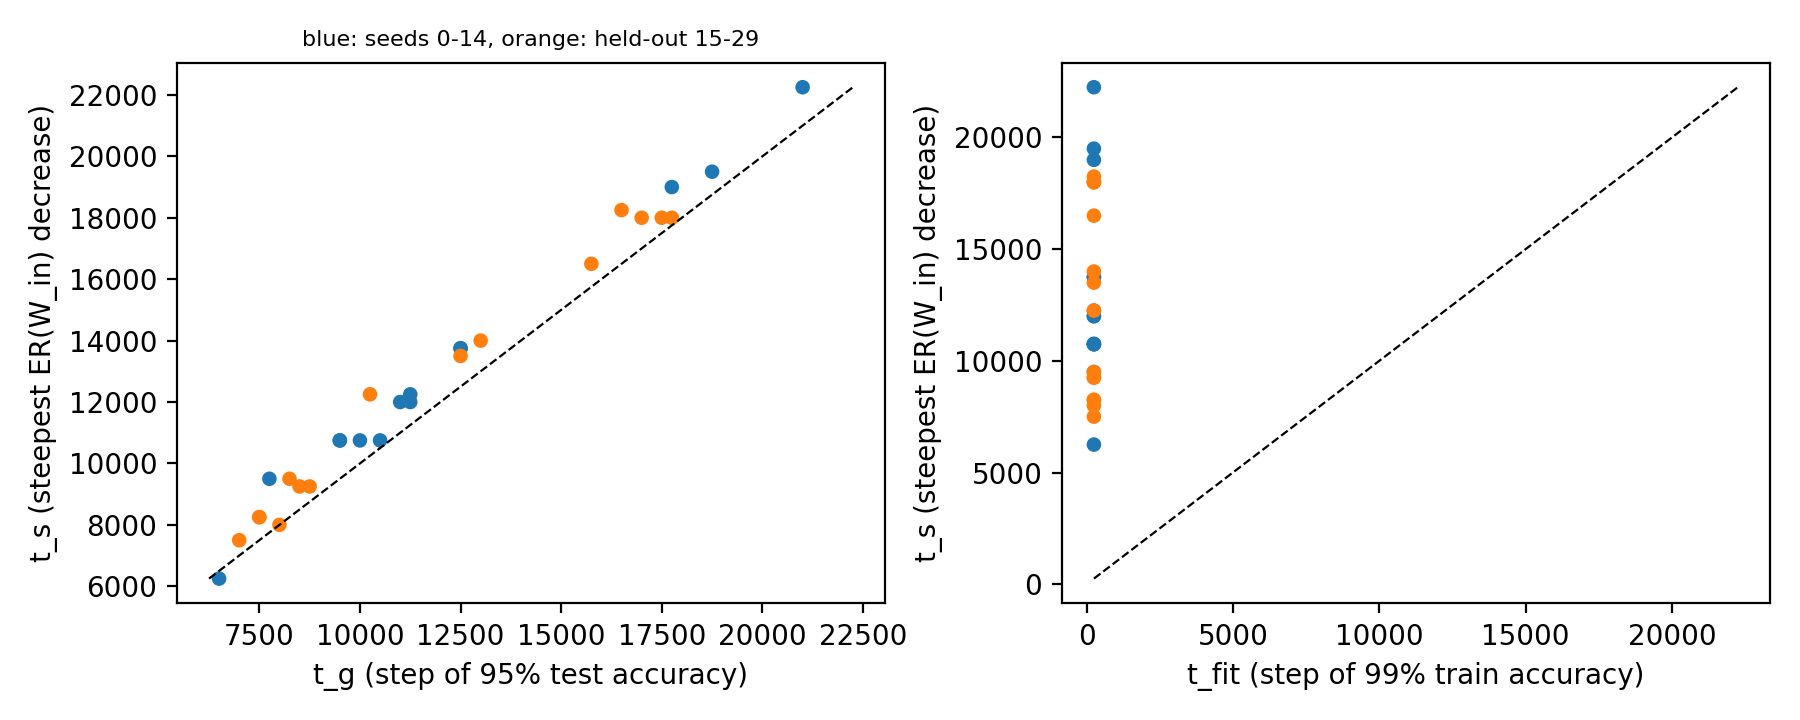
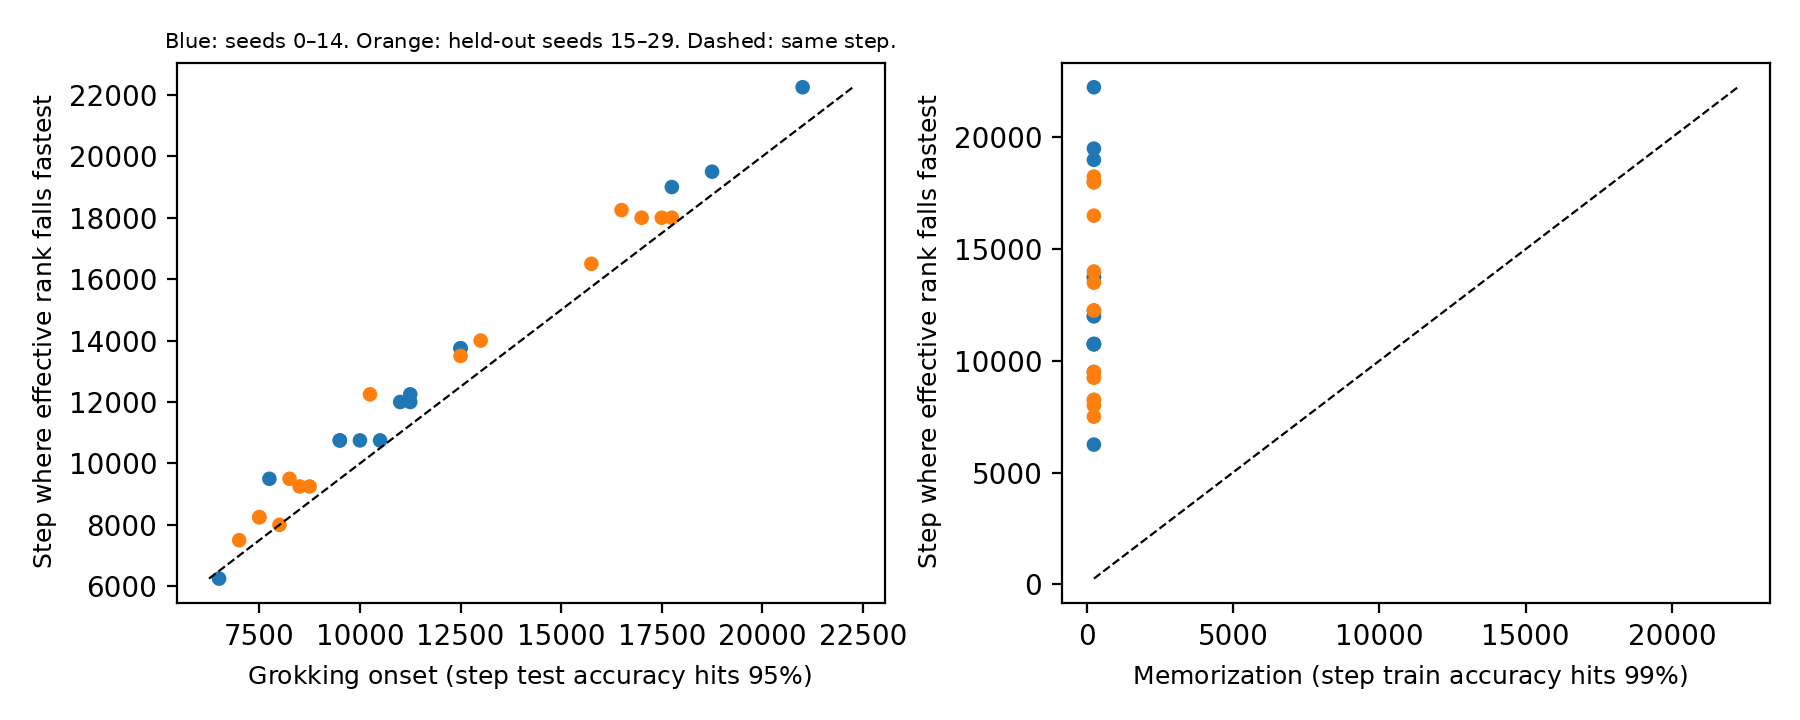
Relabel the timing figure in plain language
Replace the t_s, t_g and t_fit axis labels with what they mean, and say
what the dashed line is. The plotted data are unchanged.

diff --git a/subspace-crystallization/index.html b/subspace-crystallization/index.html
@@ -212,7 +212,7 @@
         </p>
     </div>
     <div class="container blog main gray">
-        <img class="figure" src="static/figures/ts_vs_tg_tfit.png" alt="Steepest effective-rank decrease against grokking onset and memorization step">
+        <img class="figure" src="static/figures/ts_vs_tg_tfit.png?v=2" alt="Steepest effective-rank decrease against grokking onset and memorization step">
         <p class="caption">
             <b>Compression tracks the grokking onset, not memorization.</b> Step of the steepest effective-rank decrease of $W_{\text{in}}$ against the grokking onset (left) and against the step at which training accuracy reaches 99% (right). Blue: seeds 0–14. Orange: held-out seeds 15–29. Dashed line: identity. If compression followed memorization, the points on the right would sit at a fixed step.
         </p>
